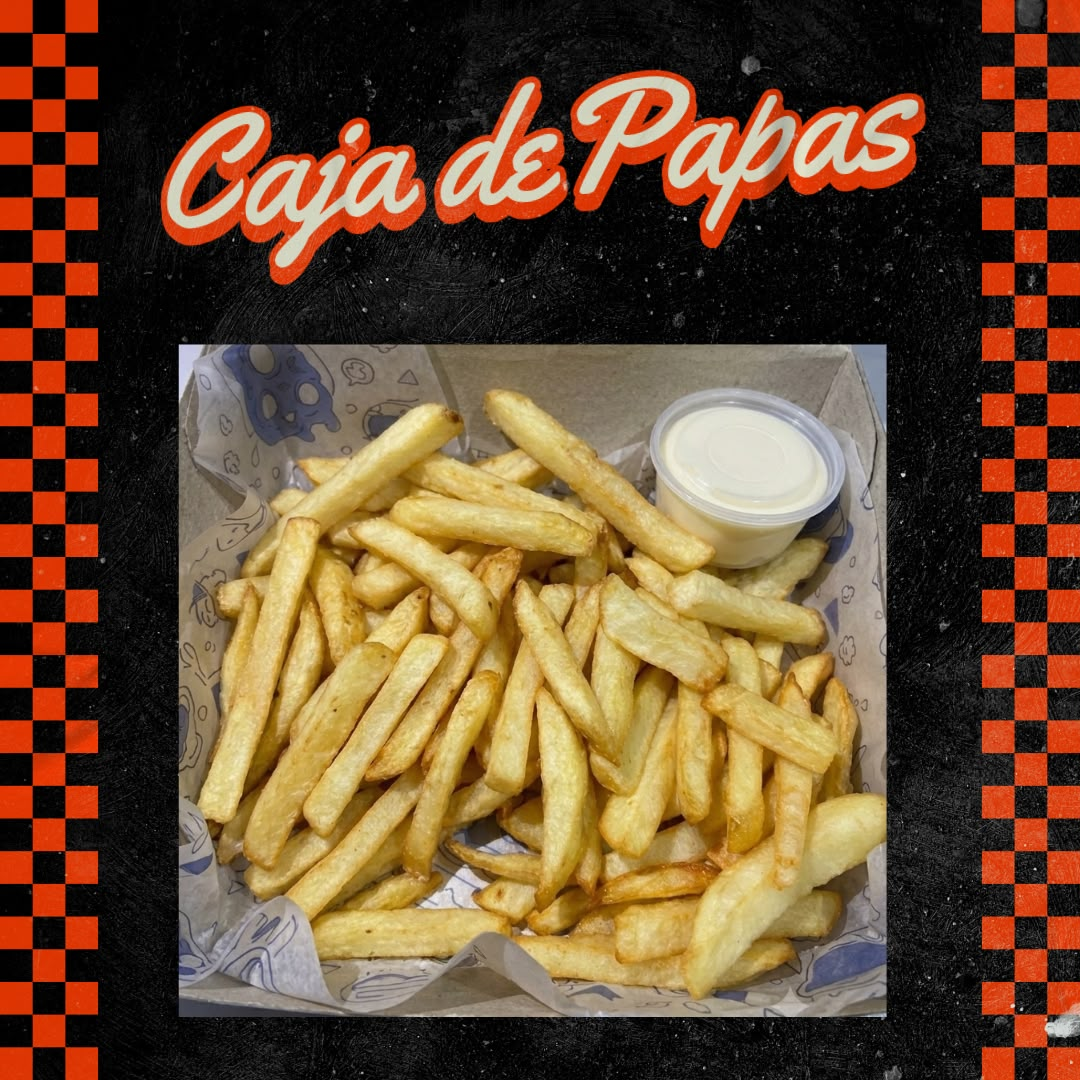
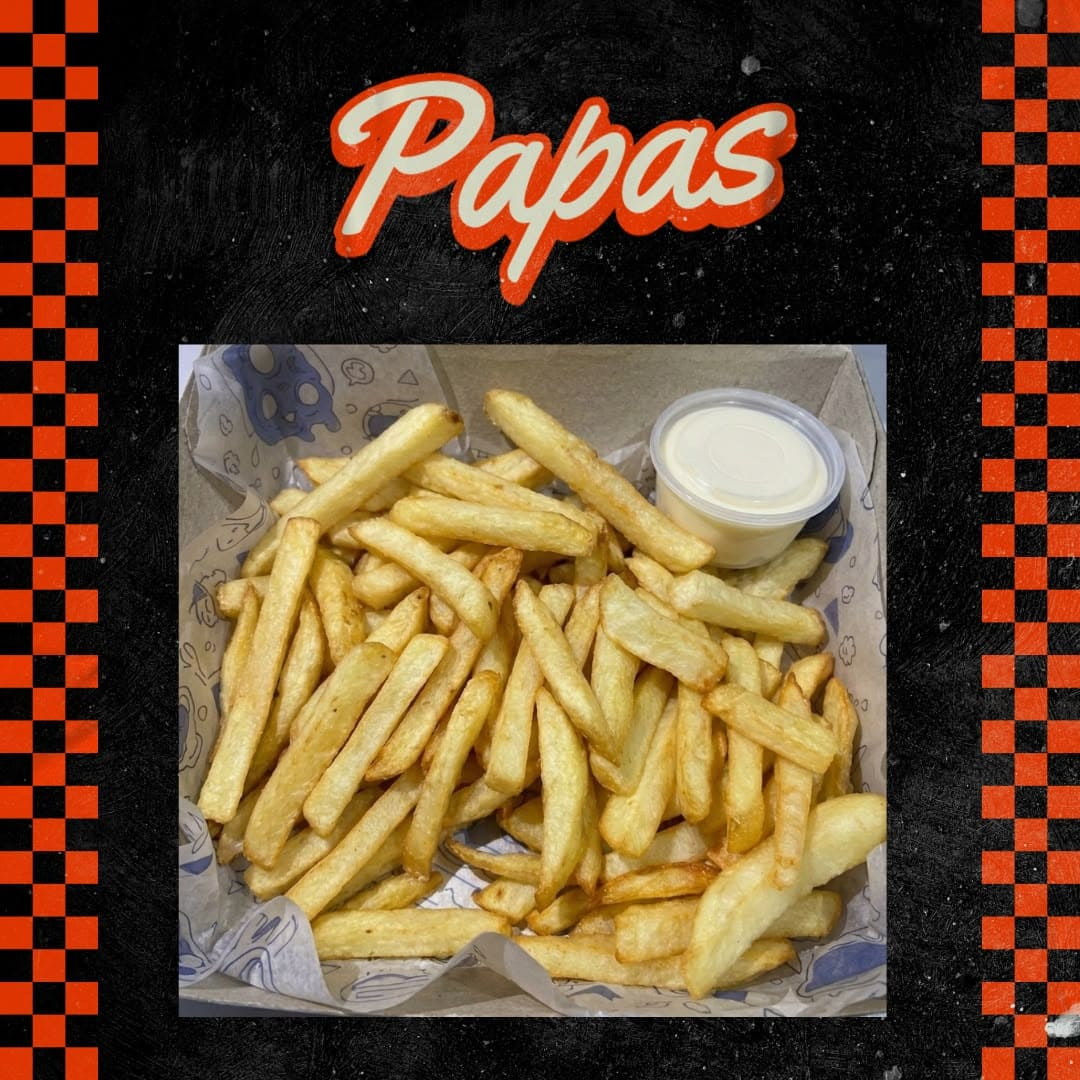
Add files via upload

Changed region(s): [[0.1222, 0.0611, 0.8556, 0.3056]]

diff --git a/index.html b/index.html
@@ -397,6 +397,7 @@
         <a href="#burgers" class="category-tab active" id="tab-burgers">Burgers</a>
         <a href="#pachatas" class="category-tab" id="tab-pachatas">Pachatas</a>
         <a href="#papas" class="category-tab" id="tab-papas">Papas</a>
+        <a href="#cajas" class="category-tab" id="tab-cajas">Cajas de Papas</a>
     </div>
 
     <div class="container">
@@ -678,7 +679,6 @@
         <div id="papas">
             <h2 class="section-title">🍟 Papas</h2>
             <p class="category-desc">Ideales para acompañar o compartir.</p>
-
             
             <div class="product-card">
                 <img src="papas_dip.png" alt="Porción de Papas con Dip">
@@ -694,7 +694,6 @@
                 </div>
             </div>
 
-           
             <div class="product-card">
                 <img src="dip_mayo.png" alt="Dip de Mayo de Ajo Extra">
                 <div class="product-name">Dip de Mayo de Ajo</div>
@@ -705,6 +704,26 @@
                         <button class="btn-qty" onclick="changeQty('pt-dip-extra', -1, 700, 'Dip Mayo de Ajo')">-</button>
                         <span class="qty-value" id="pt-dip-extra">0</span>
                         <button class="btn-qty" onclick="changeQty('pt-dip-extra', 1, 700, 'Dip Mayo de Ajo')">+</button>
+                    </span>
+                </div>
+            </div>
+        </div>
+
+        <!-- CAJAS DE PAPAS -->
+        <div id="cajas">
+            <h2 class="section-title">📦 Cajas de Papas</h2>
+            <p class="category-desc">Cajas cargadas de papas fritas ideales para compartir a pleno.</p>
+
+            <div class="product-card">
+                <img src="papas_caja.png" alt="Caja de Papas">
+                <div class="product-name">Caja de Papas Fritas</div>
+                <p class="product-desc">Caja abundante de papas fritas crocantes con salsas y agregados especiales.</p>
+                <div class="item-footer">
+                    <span class="single-price">$7.000</span>
+                    <span class="quantity-controls">
+                        <button class="btn-qty" onclick="changeQty('caja-papas', -1, 7000, 'Caja de Papas Fritas')">-</button>
+                        <span class="qty-value" id="caja-papas">0</span>
+                        <button class="btn-qty" onclick="changeQty('caja-papas', 1, 7000, 'Caja de Papas Fritas')">+</button>
                     </span>
                 </div>
             </div>
@@ -829,7 +848,7 @@
         }
 
         window.addEventListener('scroll', () => {
-            const sections = ['burgers', 'pachatas', 'papas'];
+            const sections = ['burgers', 'pachatas', 'papas', 'cajas'];
             sections.forEach(sec => {
                 const el = document.getElementById(sec);
                 if (el) {
@@ -897,7 +916,7 @@
             
             if (notes) {
                 message += `\n🚨🚨🚨 *¡ATENCIÓN COCINA!* 🚨🚨🚨\n`;
-                message += `⚠⚠ *OBSERVACIÓN DE PRODUCTO:* ⚠⚠\n`;
+                message += `⚠⚠ *OBSERVACIÓN DE PRODUCTO:* ⚠⚠\n`;
                 message += `👉 *${notes.toUpperCase()}*\n`;
                 message += `━━━━━━━━━━━━━━━━━━━━━━━━━━\n`;
             }
@@ -914,7 +933,7 @@
                 message += `🏦 *DATOS PARA TRANSFERENCIA:*\n`;
                 message += `• Alias: *palosgustos.mp*\n`;
                 message += `• Titular: *Leonardo Samuel Montaña Maya*\n\n`;
-                message += `⚠ _Recordá enviar el comprobante de transferencia._\n`;
+                message += `⚠ _Recordá enviar el comprobante de transferencia._\n`;
             }
 
             const phoneNumber = "5492644710376"; 
